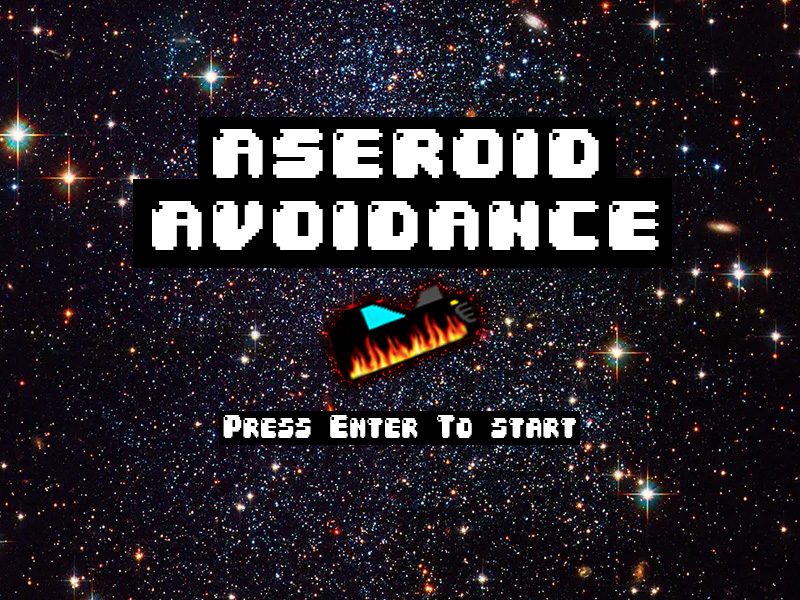
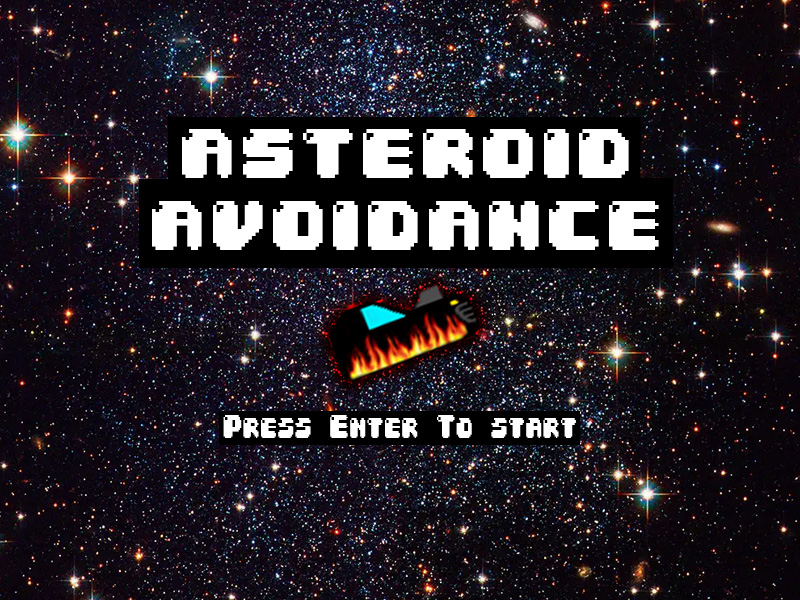
Final Project

Changed region(s): [[0.1875, 0.18, 0.8125, 0.3], [0.1562, 0.3, 0.1875, 0.36], [0.1562, 0.42, 0.1875, 0.45]]

diff --git a/Final Project/index.html b/Final Project/index.html
@@ -10,7 +10,7 @@
 <body>
     <div id="container">
         <header>
-            <h1>ASTROID AVOIDENCE</h1>
+            <h1>ASTEROID AVOIDENCE</h1>
         </header>
         <nav>
             <a href="instruct.html">INSTRUCTIONS</a>
